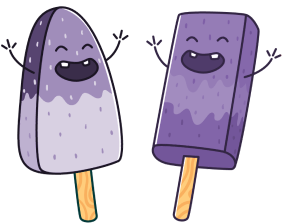
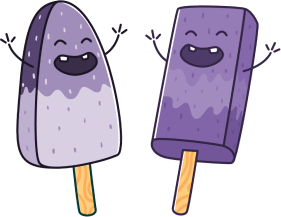
Pictures scaling, still need to position them well

diff --git a/app/assets/stylesheets/pages/_home.scss b/app/assets/stylesheets/pages/_home.scss
@@ -2,13 +2,26 @@
 .container-fluid {
   padding: 0px;
 }
-
+.row {
+  margin: 0px;
+}
 .trio-banner {
   padding: 0px;
-  background-size: cover;
+  background-size: inherit;
   background-repeat: no-repeat;
   position: relative;
   img {
     width: 100%;
   }
+}
+.container-explain {
+  color: #E8EEF2;
+  display: flex;
+  justify-content: space-around;
+  align-items: flex-start;
+  margin-top: -4%;
+}
+img {
+  max-width: 100%;
+  height: auto
 }
